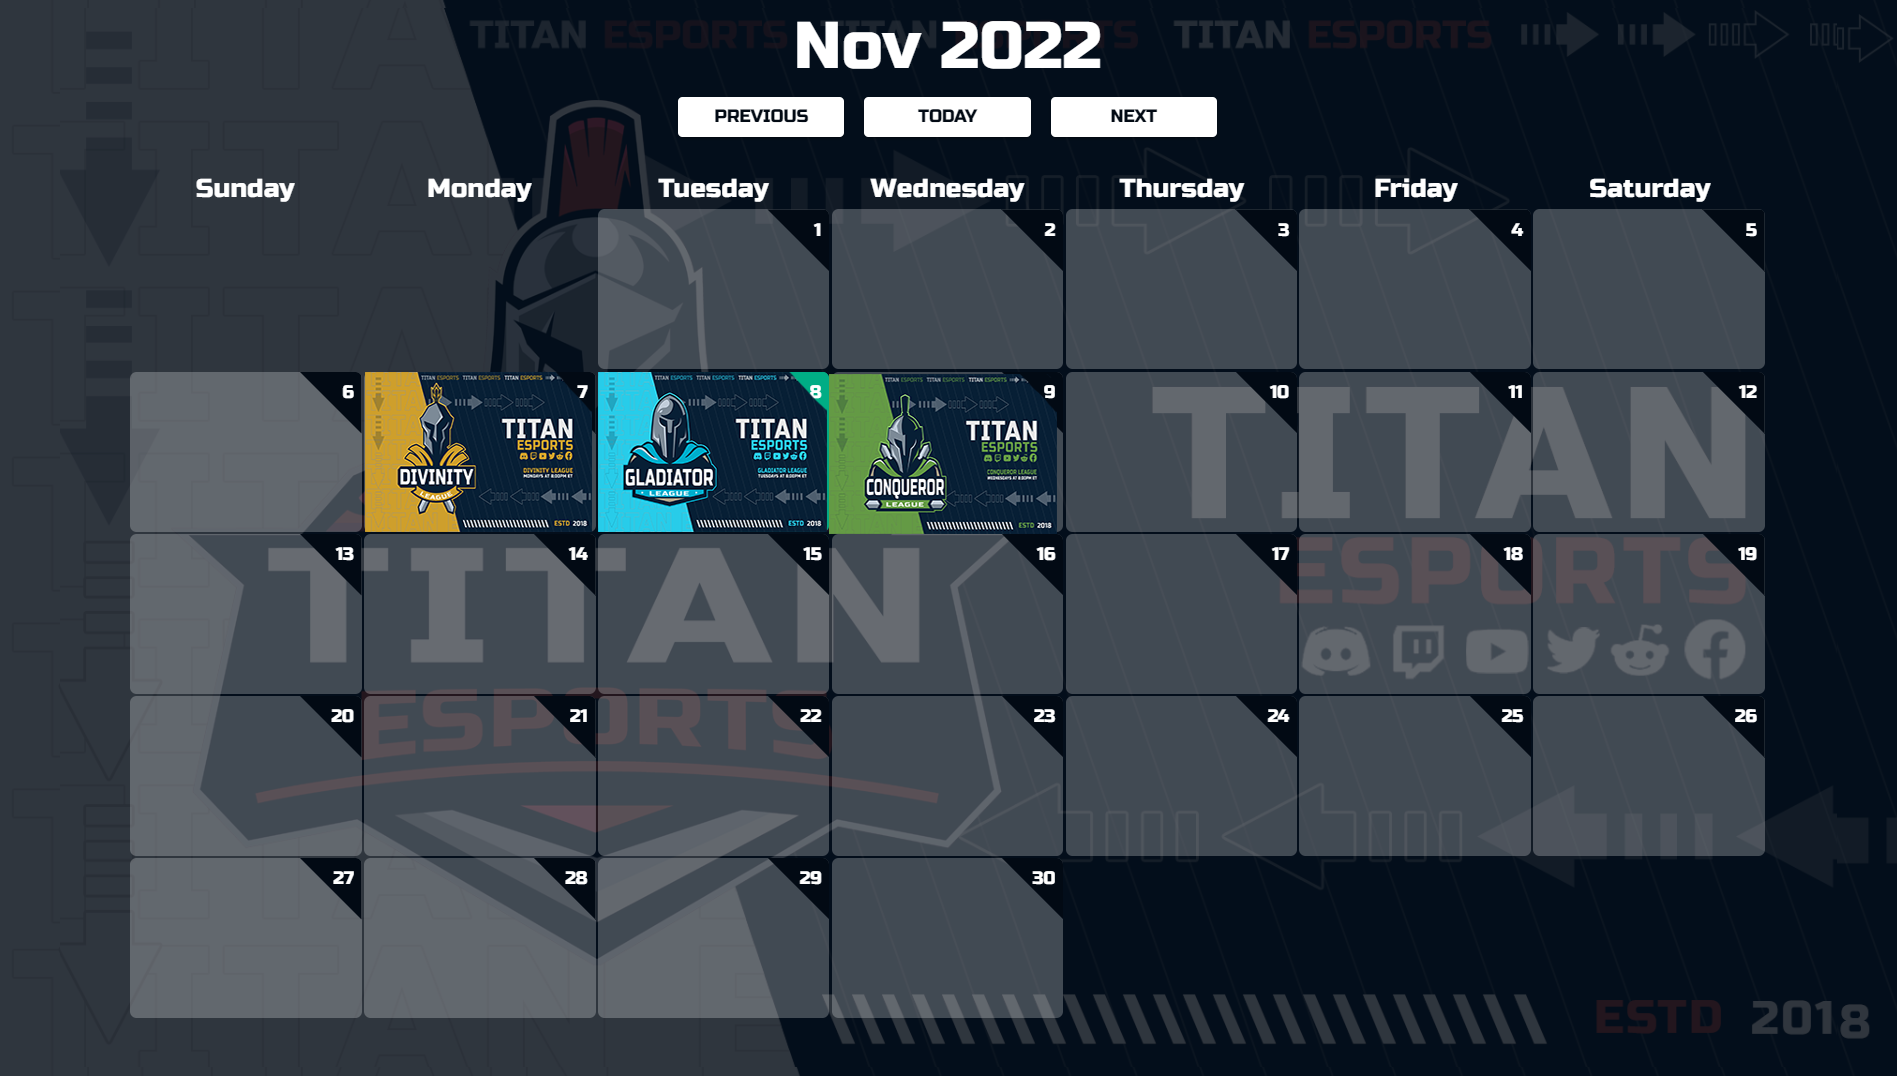
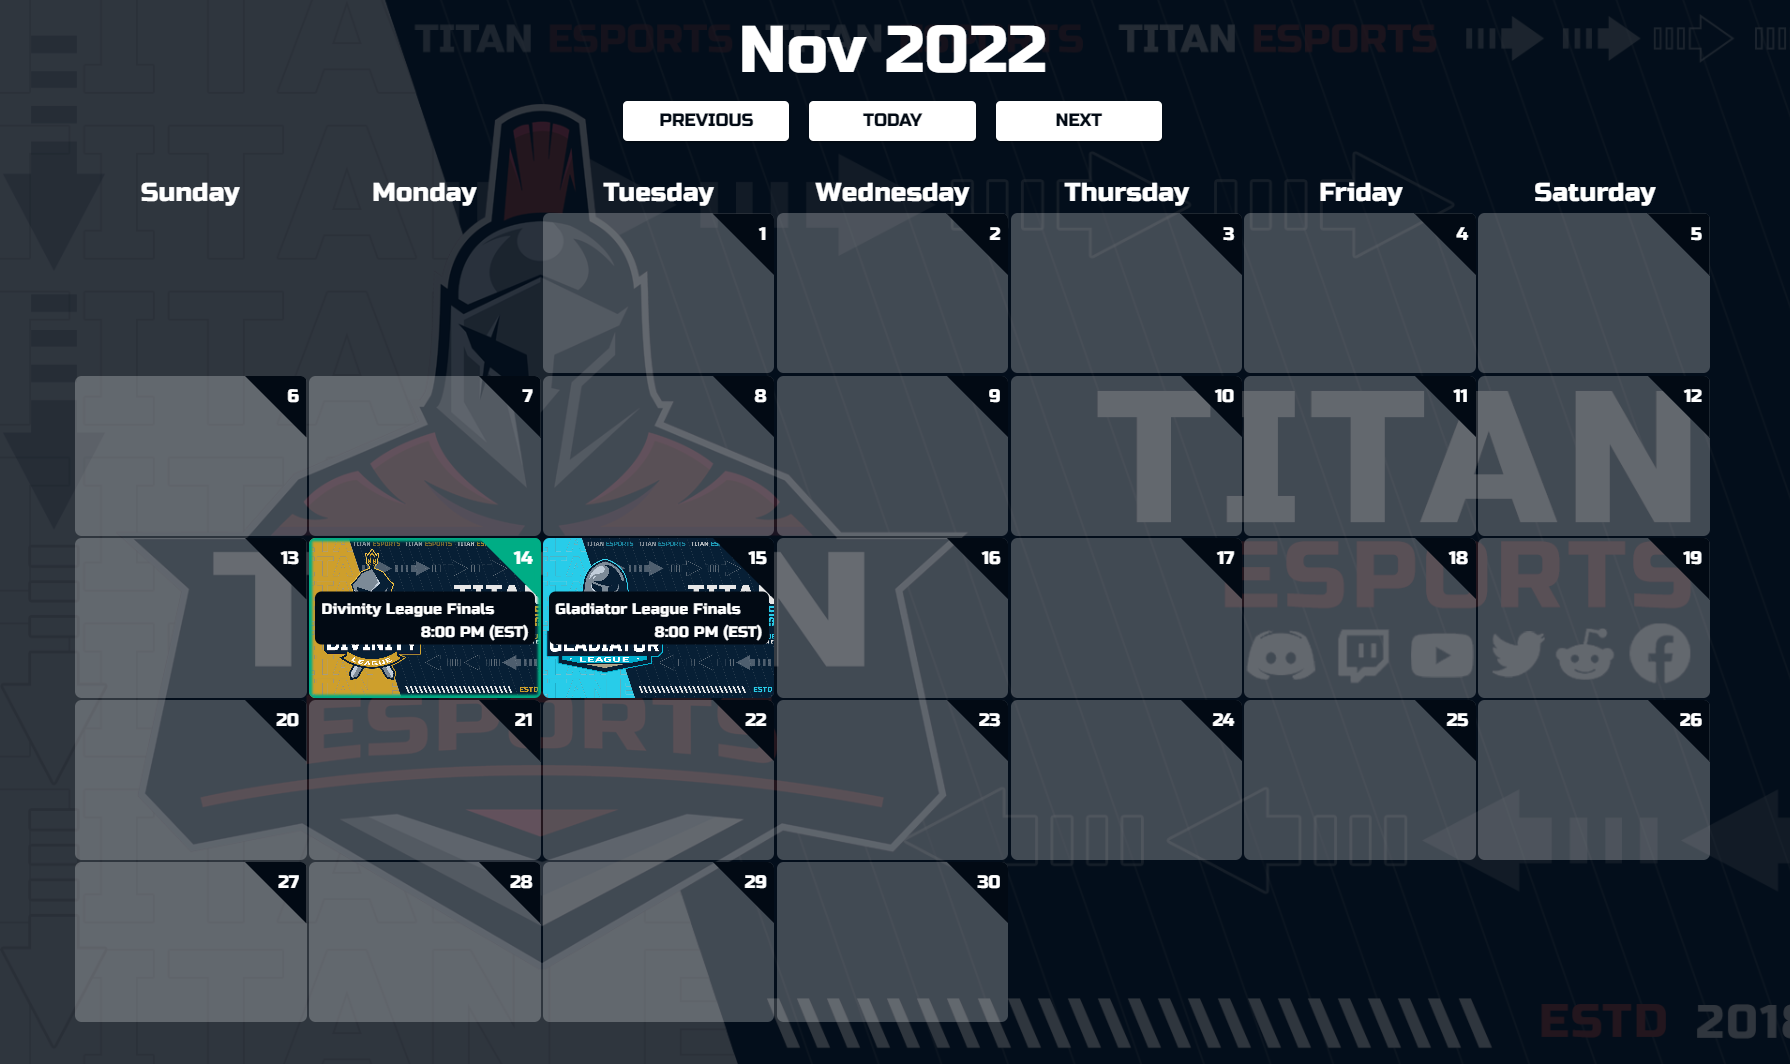
divinity league updates

diff --git a/widgets/carousel/carousel.html b/widgets/carousel/carousel.html
@@ -40,8 +40,18 @@
         </div>
       </div>
       <div class="slide">
-        <div id="slide-2">
+        <div id="slide-3">
           <img src="img/conqueror_matchup.png" width="1400px" height="800px" />
+        </div>
+      </div>
+      <div class="slide">
+        <div id="slide-4">
+          <img src="img/divinity_league_finals.png" width="1400px" height="800px" />
+        </div>
+      </div>
+      <div class="slide">
+        <div id="slide-5">
+          <img src="img/gladiator_league_finals.png" width="1400px" height="800px" />
         </div>
       </div>
     </div>

diff --git a/widgets/advertisement/divinity_caster.html b/widgets/advertisement/divinity_caster.html
@@ -37,7 +37,7 @@
       </div>
       <div class="slide">
         <div id="slide-3">
-          <img src="img/shoutcaster_divinity_craze.png" width="100%" />
+          <img src="img/shoutcaster_divinity_xeminan.png" width="100%" />
         </div>
       </div>
     </div>

diff --git a/widgets/advertisement/stream_start.htm b/widgets/advertisement/stream_start.htm
@@ -92,7 +92,7 @@ setTimeout(
 <body>
 <div id="div_container">
 <div><span id="text">COMING UP</span></div>
-<div><span id="text2">CER vs. ICE</span></div>
+<div><span id="text2">TACW vs. DoGL</span></div>
 <div><span id="time"></span><div>
 </div>
 
